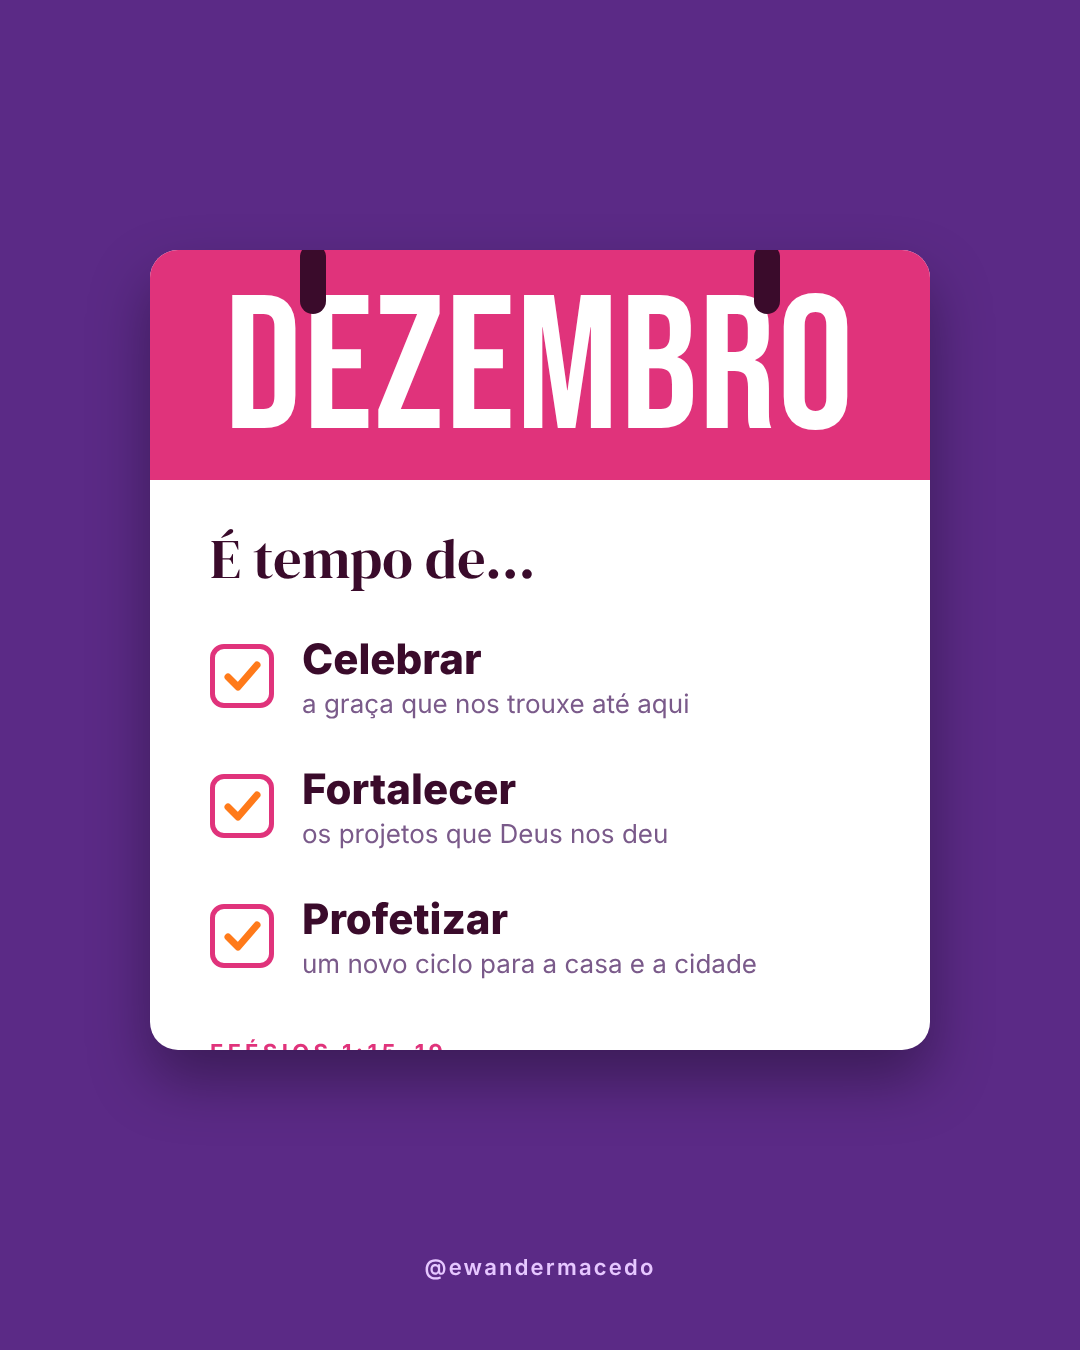
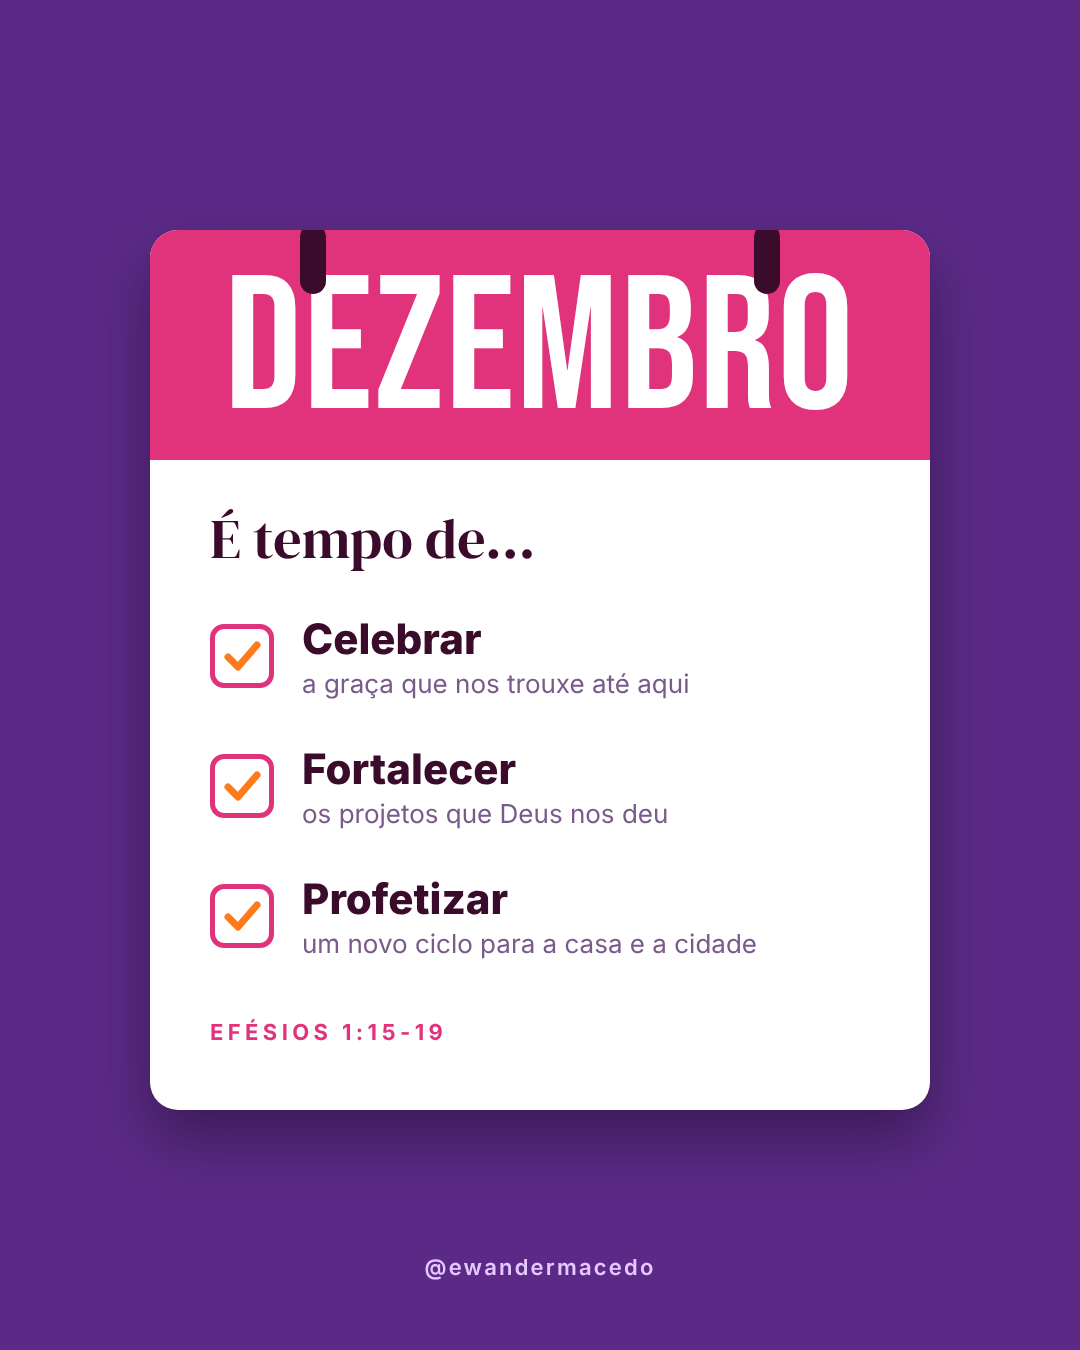
Ajusta cartão do calendário de dezembro
Claude-Session: https://claude.ai/code/session_013VaPpwQacftNeqqNmXyuyp

diff --git a/instagram-iem/render-serie.js b/instagram-iem/render-serie.js
@@ -171,7 +171,7 @@ const posts = {
 
   'dia-17-celebrar-fortalecer-profetizar': `
 <div class="post" style="background:#5b2a86">
-  <div class="abs" style="left:150px;right:150px;top:250px;height:800px;background:#fff;border-radius:28px;box-shadow:0 30px 60px rgba(0,0,0,.35);overflow:hidden">
+  <div class="abs" style="left:150px;right:150px;top:230px;height:880px;background:#fff;border-radius:28px;box-shadow:0 30px 60px rgba(0,0,0,.35);overflow:hidden">
     <div style="background:#e0337b;height:230px;position:relative">
       <div style="position:absolute;top:-6px;left:150px;width:26px;height:70px;background:#3a0b2b;border-radius:13px"></div>
       <div style="position:absolute;top:-6px;right:150px;width:26px;height:70px;background:#3a0b2b;border-radius:13px"></div>
